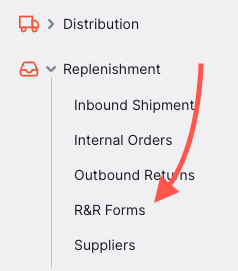
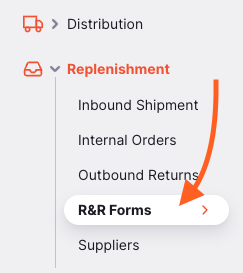
programs -> replenishment changes

diff --git a/content/docs/replenishment/r-and-r-forms.md b/content/docs/replenishment/r-and-r-forms.md
@@ -28,13 +28,11 @@ See the [mSupply docs](https://docs.msupply.org.nz/items:programs) for configuri
 
 ## R&R Forms - List View
 
-Go to `Programs` > `R&R Forms` to view the list of R&R Forms.
+Go to `Replenishment` > `R&R Forms` to view the list of R&R Forms.
 
 ![R&R Navigation](/docs/replenishment/images/goto_rnr.png)
 
 You can click the column headers to sort the list by that column.
-
-<!-- TODO: repalce with status list -->
 
 ![R&R List](/docs/replenishment/images/rnr_list.png)
 
